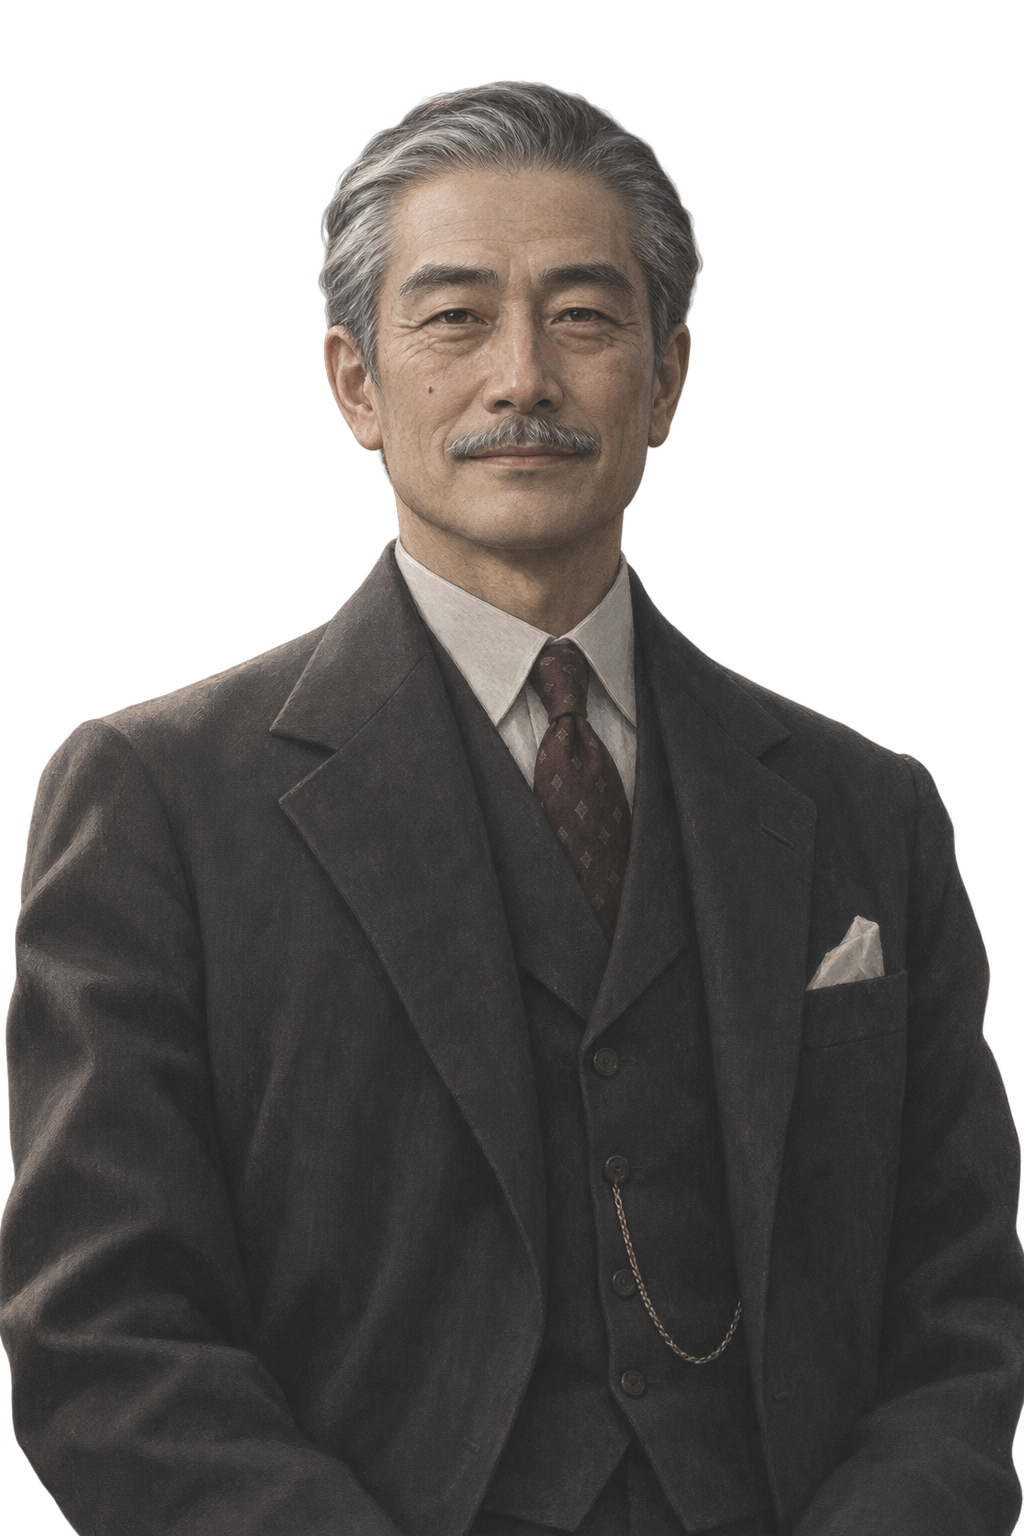
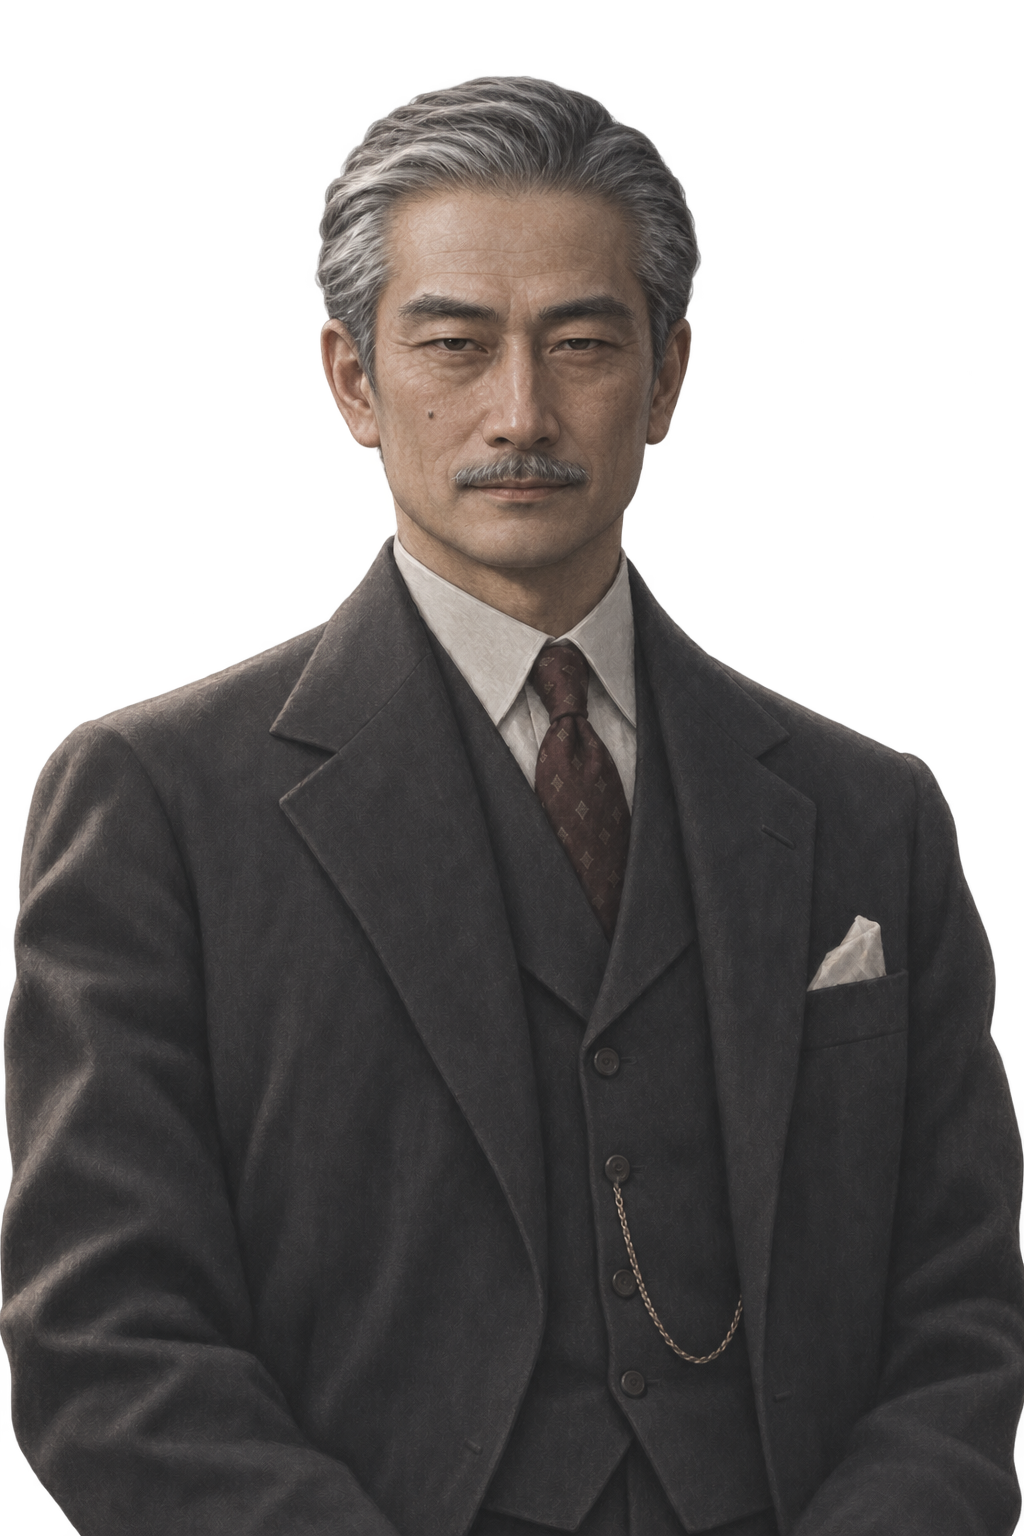
立绘校正：调整五位角色人设表现、重做天真亲和的千鹤并补主角三表情

diff --git a/assets/README.md b/assets/README.md
@@ -7,7 +7,7 @@
 
 - **场景背景**（`assets/bg/`，2/153 已就位）：16:9 场景图，JPG，1920×1080，质量 85 左右，单张不超过 600KB。 历史题材写实插画。故事主体发生在 1939–1949 年的朝鲜京城（今首尔），少数场景在日本、平壤或战后年代，以下面的场景描述为准。低饱和、偏冷的色调，轻微胶片颗粒，构图像 1940 年代的新闻照片或电影剧照。画面中不要出现可读文字、水印或现代物品；人物如需出现只作远景剪影，不画清晰面孔。
 - **事件插图**（`assets/cg/`，0/1 已就位）：16:9 事件插图，JPG，1920×1080。 与背景同一画风的事件插图，可以有人物，但人物外貌须遵守角色设定。
-- **人物立绘**（`assets/char/`，10/92 已就位）：半身立绘（腰部以上），透明背景 PNG，1024×1536，人物居中，头顶留约 8% 空白。游戏里会把它裁成圆形头像（取上方 40%），所以脸要在画面上部三分之一处。 与背景统一的写实插画风，统一左上方光源。同一人物的所有表情、服装必须保持脸型、五官、发型和年龄一致：先生成「常态」，再以它为参考生成其他表情。
+- **人物立绘**（`assets/char/`，14/92 已就位）：半身立绘（腰部以上），透明背景 PNG，1024×1536，人物居中，头顶留约 8% 空白。游戏里会把它裁成圆形头像（取上方 40%），所以脸要在画面上部三分之一处。 与背景统一的写实插画风，统一左上方光源。同一人物的所有表情、服装必须保持脸型、五官、发型和年龄一致：先生成「常态」，再以它为参考生成其他表情。
 - **配乐**（`assets/bgm/`，0/26 已就位）：MP3，128–192kbps，立体声。可无缝循环，长度 60–150 秒；首尾音量一致以便循环。 原创配乐，不要使用或模仿任何已有曲目的旋律。
 - **音效**（`assets/sfx/`，0/49 已就位）：MP3，单声道即可，0.5–4 秒，开头不留空白，结尾自然衰减。 写实音效，1940 年代环境（没有现代电子声）。
 
@@ -230,11 +230,11 @@
 | `assets/char/吴英子_微笑.png` | 20 | 人物：女，20 岁，总督府警务局打字员，主角的学妹。圆脸、短发、眼睛亮，穿白衬衫和深色裙子。 表情/状态：淡淡的微笑。 |
 | `assets/char/吴英子_惊喜.png` | 20 | 人物：女，20 岁，总督府警务局打字员，主角的学妹。圆脸、短发、眼睛亮，穿白衬衫和深色裙子。 表情/状态：惊喜。 |
 | `assets/char/吴英子_紧张.png` | 20 | 人物：女，20 岁，总督府警务局打字员，主角的学妹。圆脸、短发、眼睛亮，穿白衬衫和深色裙子。 表情/状态：紧张。 |
-| `assets/char/姜仁宇_常态.png` | — | 人物：主角，男，23–33 岁（1939–1949），朝鲜人。清瘦，短发三七分，单眼皮，神情克制；常穿深色西装和窄领带，后期领口松开、手指被烟熏黄。 表情/状态：平静的常态表情。 |
-| `assets/char/姜仁宇_微笑.png` | — | 人物：主角，男，23–33 岁（1939–1949），朝鲜人。清瘦，短发三七分，单眼皮，神情克制；常穿深色西装和窄领带，后期领口松开、手指被烟熏黄。 表情/状态：淡淡的微笑。 |
-| `assets/char/姜仁宇_憔悴.png` | — | 人物：主角，男，23–33 岁（1939–1949），朝鲜人。清瘦，短发三七分，单眼皮，神情克制；常穿深色西装和窄领带，后期领口松开、手指被烟熏黄。 表情/状态：憔悴、疲惫。 |
+| ✅ `assets/char/姜仁宇_常态.png` | — | 人物：主角，男，23–33 岁（1939–1949），朝鲜人。清瘦，短发三七分，单眼皮，神情克制；常穿深色西装和窄领带，后期领口松开、手指被烟熏黄。 表情/状态：平静的常态表情。 |
+| ✅ `assets/char/姜仁宇_微笑.png` | — | 人物：主角，男，23–33 岁（1939–1949），朝鲜人。清瘦，短发三七分，单眼皮，神情克制；常穿深色西装和窄领带，后期领口松开、手指被烟熏黄。 表情/状态：淡淡的微笑。 |
+| ✅ `assets/char/姜仁宇_憔悴.png` | — | 人物：主角，男，23–33 岁（1939–1949），朝鲜人。清瘦，短发三七分，单眼皮，神情克制；常穿深色西装和窄领带，后期领口松开、手指被烟熏黄。 表情/状态：憔悴、疲惫。 |
 | `assets/char/安敬顺_常态.png` | 57 | 人物：女，50 岁，亲日女校长、府民馆大会发言人。发髻、黑色洋装。 表情/状态：平静的常态表情。 |
-| `assets/char/宫本千鹤_头巾.png` | 65 | 人物：女，24 岁，日本人，宫本之女，女学校历史教员。齐肩黑发，眉眼柔和，穿素色洋装或和服，手里常拿着笔记本。 表情/状态：包着头巾。 |
+| ✅ `assets/char/宫本千鹤_头巾.png` | 65 | 人物：女，24 岁，日本人，宫本之女，女学校历史教员。齐肩黑发，眉眼柔和，穿素色洋装或和服，手里常拿着笔记本。 表情/状态：包着头巾。 |
 | ✅ `assets/char/宫本千鹤_常态.png` | 10、35、39、57、59、60… | 人物：女，24 岁，日本人，宫本之女，女学校历史教员。齐肩黑发，眉眼柔和，穿素色洋装或和服，手里常拿着笔记本。 表情/状态：平静的常态表情。 |
 | `assets/char/宫本千鹤_平静.png` | 39 | 人物：女，24 岁，日本人，宫本之女，女学校历史教员。齐肩黑发，眉眼柔和，穿素色洋装或和服，手里常拿着笔记本。 表情/状态：平静、不动声色。 |
 | `assets/char/宫本千鹤_微笑.png` | 35、39 | 人物：女，24 岁，日本人，宫本之女，女学校历史教员。齐肩黑发，眉眼柔和，穿素色洋装或和服，手里常拿着笔记本。 表情/状态：淡淡的微笑。 |
